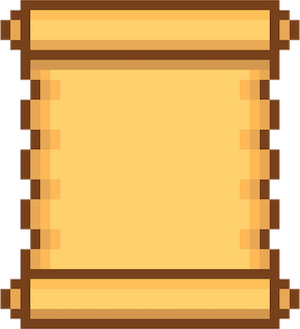
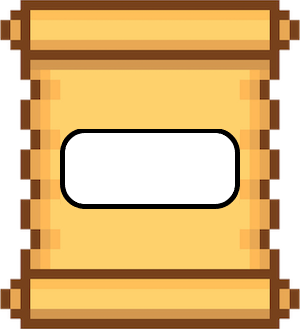
update
Added box to box.png
Removed modifier.png because its not 1260x720
Made everything use TitleScreen.jpeg because its the correct resolution

Changed region(s): [[0.18, 0.3951, 0.81, 0.6383]]

diff --git a/Mr.Cohen-Simulator/Modifier.java b/Mr.Cohen-Simulator/Modifier.java
@@ -12,7 +12,7 @@ import greenfoot.*;  // (World, Actor, GreenfootImage, Greenfoot and MouseInfo)
  */
 public class Modifier extends World
 {
-    private GreenfootImage background = new GreenfootImage("images/Modifier.png");
+    private GreenfootImage background = new GreenfootImage("images/TitleScreen.jpeg");
 
     private MouseInfo mouse;
     // private Label days = new Label(numDays, 100);

diff --git a/Mr.Cohen-Simulator/ValueBox.java b/Mr.Cohen-Simulator/ValueBox.java
@@ -109,7 +109,7 @@ public class ValueBox extends Actor
             
             if (isTyping) {
                 if (showBlink && currentlyTyping.length() < 3) {
-                    textLabel.setValue(currentlyTyping + "|");
+                    textLabel.setValue(currentlyTyping + "I");
                 } else {
                     textLabel.setValue(currentlyTyping);
                 }
